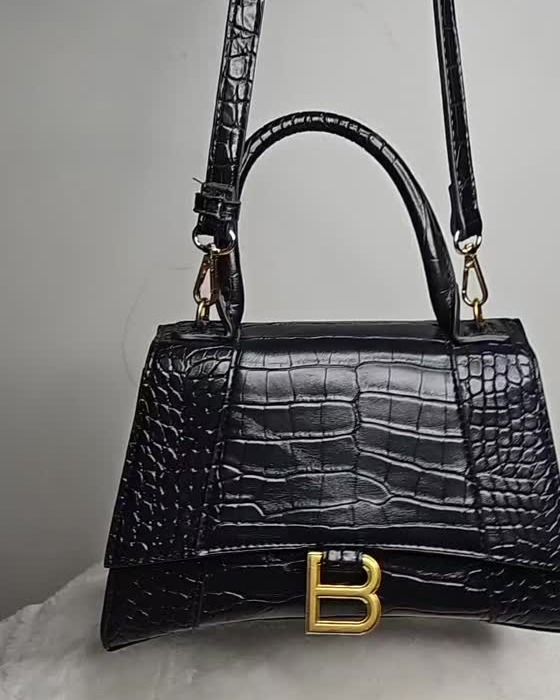
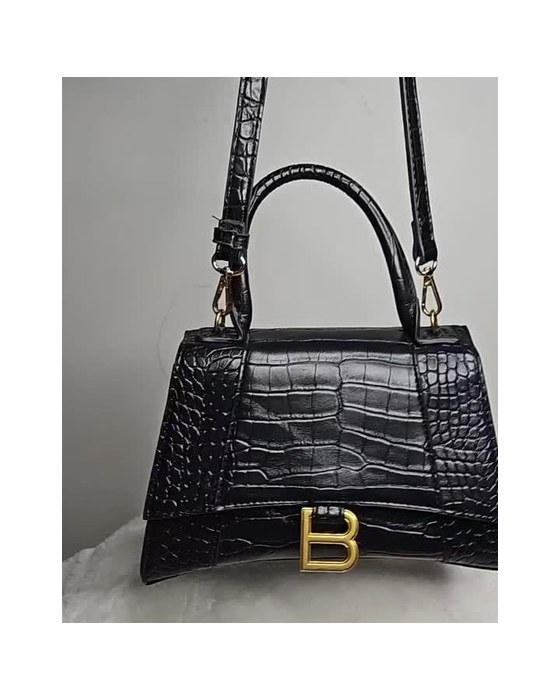
Add breathing room around bag images — 11% white margin on all sides, blends into card bg

diff --git a/main.js b/main.js
@@ -1,5 +1,5 @@
 // ThriftLux frontend gallery
-const IMG_VERSION = 'v3'; // bump this whenever you re-crop/replace bag images
+const IMG_VERSION = 'v4'; // bump this whenever you re-crop/replace bag images
 (async function() {
   const gallery = document.getElementById('gallery');
   const filterMeta = document.getElementById('filterMeta');
